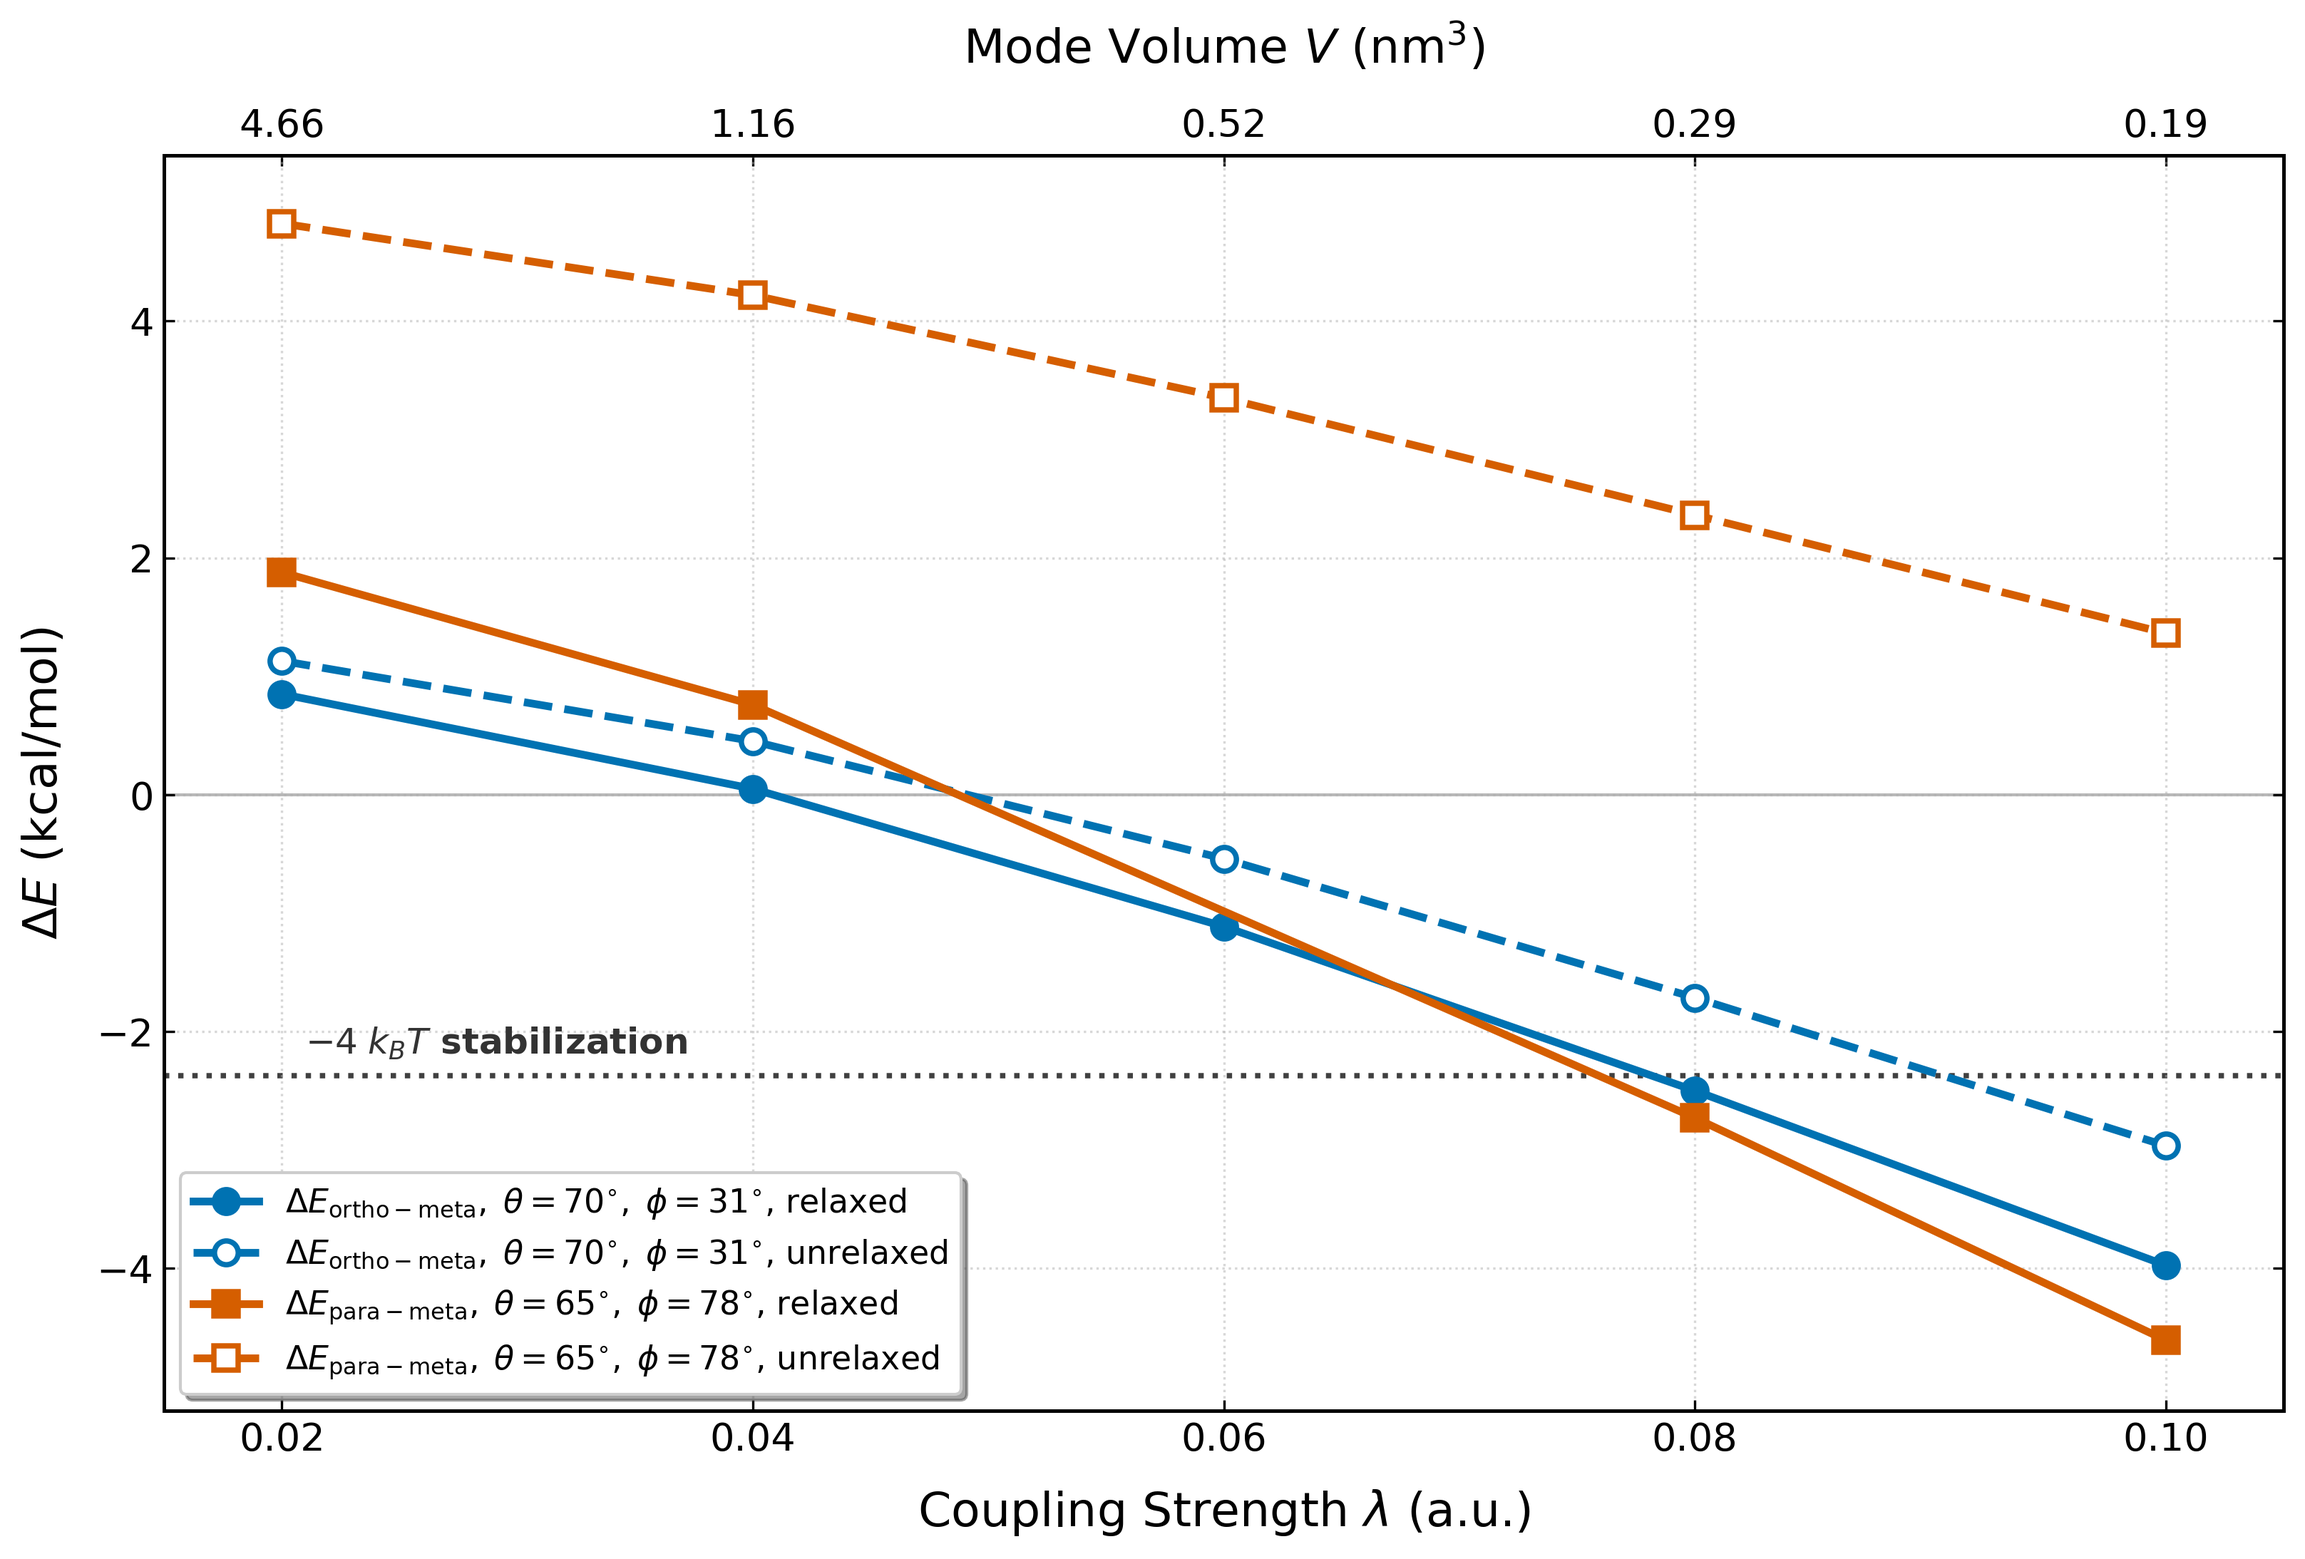
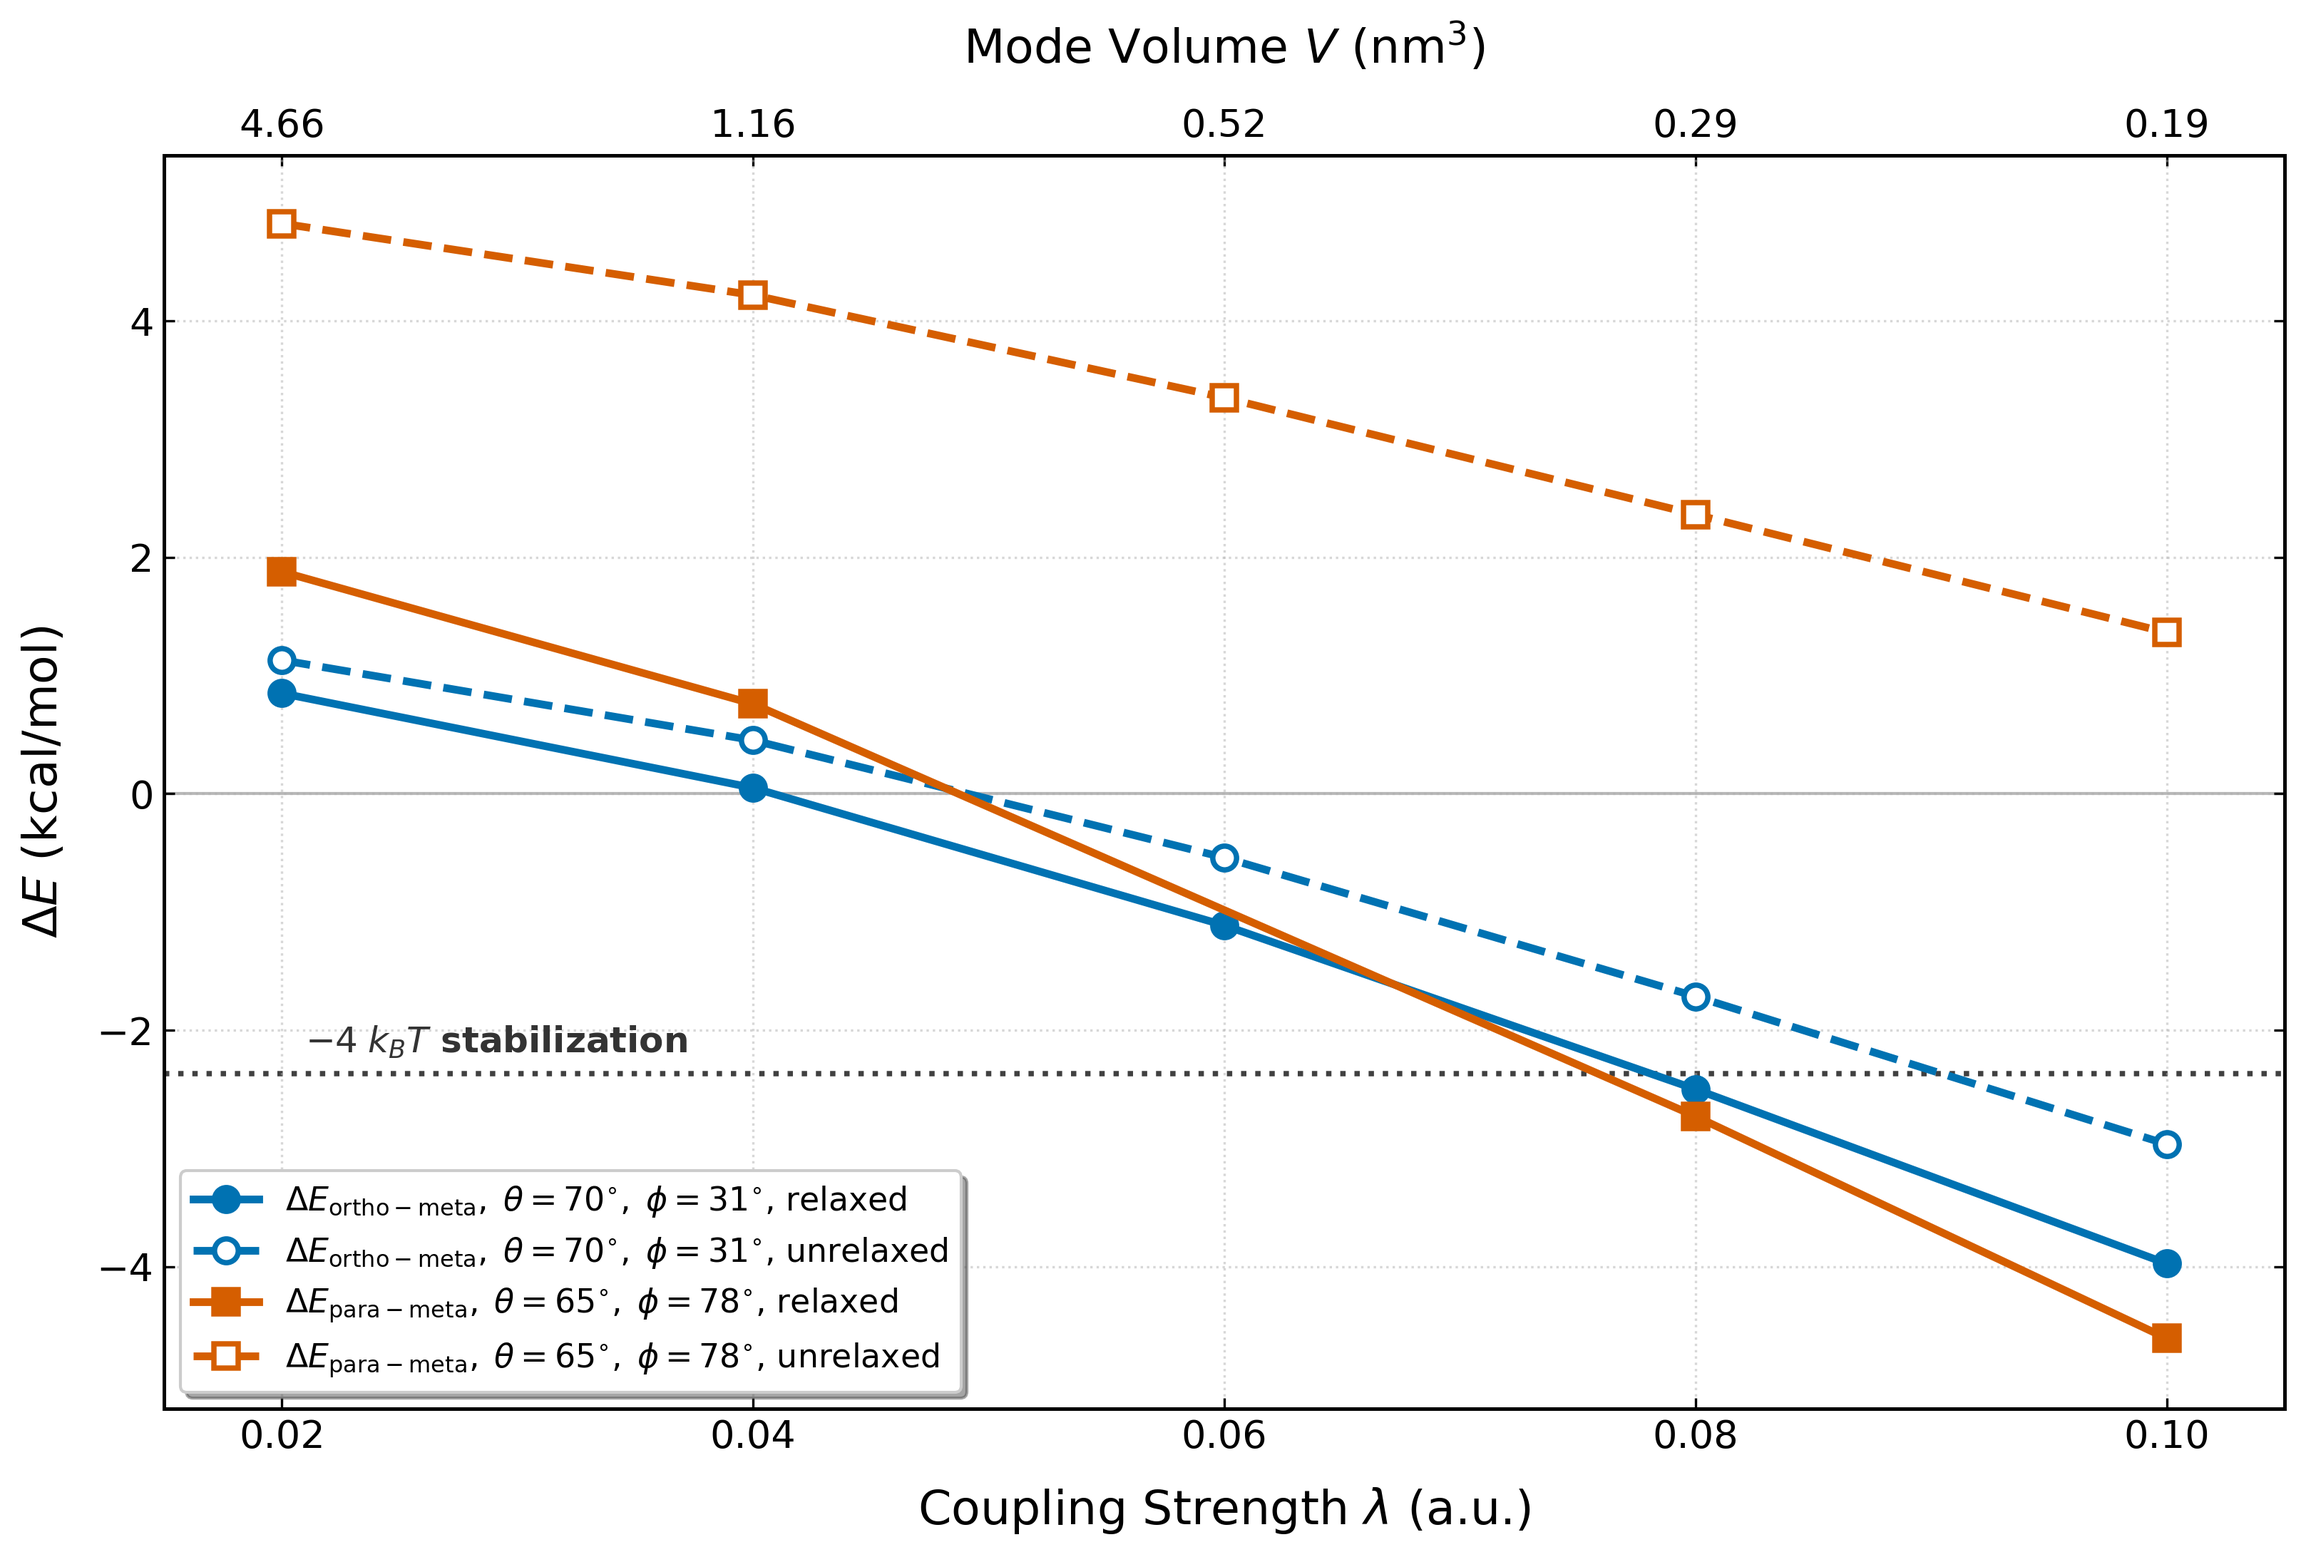
updated README.md

diff --git a/Energy_Scan_Data/NEW_LAMBDA_SCAN/Lambda_Scan_Results/scripts/plot_qed_ccsd_relaxed_unrelaxed_styled.py b/Energy_Scan_Data/NEW_LAMBDA_SCAN/Lambda_Scan_Results/scripts/plot_qed_ccsd_relaxed_unrelaxed_styled.py
@@ -104,13 +104,17 @@ def lambda_to_mode_volume(lambda_au: float) -> float:
     NumPy arrays, so the implementation must be vector-safe.
     """
     lambda_au = np.asarray(lambda_au)
-    return np.where(lambda_au == 0, np.inf, C_NM3 / (lambda_au**2))
+    out = np.full_like(lambda_au, np.inf, dtype=float)
+    np.divide(C_NM3, lambda_au**2, out=out, where=lambda_au != 0)
+    return out
 
 
 def mode_volume_to_lambda(volume_nm3: float) -> float:
     """Inverse transform for matplotlib's secondary_xaxis."""
     volume_nm3 = np.asarray(volume_nm3)
-    return np.where(volume_nm3 == 0, np.inf, np.sqrt(C_NM3 / volume_nm3))
+    ratio = np.full_like(volume_nm3, np.inf, dtype=float)
+    np.divide(C_NM3, volume_nm3, out=ratio, where=volume_nm3 != 0)
+    return np.sqrt(ratio)
 
 
 def read_qed_ccsd_series(entry: dict) -> tuple[list[float], list[float]]:

diff --git a/Energy_Scan_Data/NEW_LAMBDA_SCAN/Lambda_Scan_Results/scripts/README.md b/Energy_Scan_Data/NEW_LAMBDA_SCAN/Lambda_Scan_Results/scripts/README.md
@@ -39,8 +39,9 @@ To add a plot, edit the `DEFAULT_FIGURES` dictionary near the bottom of the
 script. Each curve is a small dictionary describing `method`, `pair`,
 `direction`, and any method-specific options.
 
-Requires Python with `matplotlib`. CSV parsing uses the Python standard
-library.
+Requires Python with `matplotlib`; the styled QED-CCSD script also uses
+`numpy` for Matplotlib-compatible secondary-axis transforms. CSV parsing uses
+the Python standard library.
 
 ## plot_qed_ccsd_relaxed_unrelaxed_styled.py
 
@@ -60,4 +61,6 @@ This script reads only the normalized QED-CCSD(2,2) summaries in
 
 The plot uses blue for `ortho - meta` at `(theta=70, phi=31)` and vermillion
 for `para - meta` at `(theta=65, phi=78)`. Relaxed geometries are solid with
-filled markers; unrelaxed geometries are dashed with open markers.
+filled markers; unrelaxed geometries are dashed with open markers. The lower
+x axis is coupling strength, the upper x axis is mode volume, and the
+horizontal guide marks `-5 k_B T` stabilization at 298 K.

diff --git a/Energy_Scan_Data/NEW_LAMBDA_SCAN/Lambda_Scan_Results/README.md b/Energy_Scan_Data/NEW_LAMBDA_SCAN/Lambda_Scan_Results/README.md
@@ -55,7 +55,8 @@ columns are `dE_ortho_meta*_kcal/mol` and `dE_para_meta*_kcal/mol`.
 
 ## Plotting
 
-Use `scripts/plot_isomer_energies.py` to regenerate comparison plots:
+Use `scripts/plot_isomer_energies.py` to regenerate the general comparison
+plots:
 
 ```bash
 cd scripts
@@ -65,3 +66,15 @@ python plot_isomer_energies.py
 The default script configuration generates comparisons for QED-CCSD relaxed
 vs. unrelaxed, QED-DFT relaxed vs. unrelaxed, pQED vs. QED-CCSD, and pQED vs.
 QED-DFT for the target isomer pairs and directions.
+
+For the focused publication-style QED-CCSD relaxed/unrelaxed comparison, use:
+
+```bash
+cd scripts
+python plot_qed_ccsd_relaxed_unrelaxed_styled.py
+```
+
+That script produces `qed_ccsd_relaxed_vs_unrelaxed_styled.png` and `.pdf`,
+with coupling strength on the lower x axis, mode volume on the upper x axis,
+solid/filled relaxed curves, dashed/open unrelaxed curves, and a `-5 k_B T`
+stabilization guide line.
